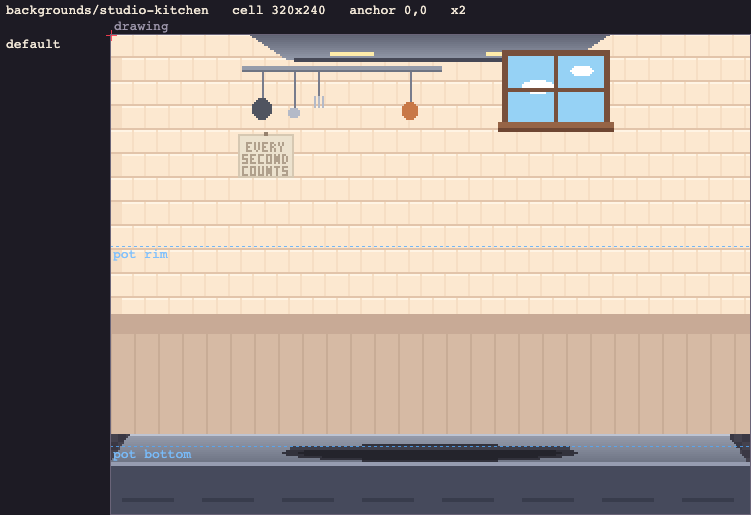
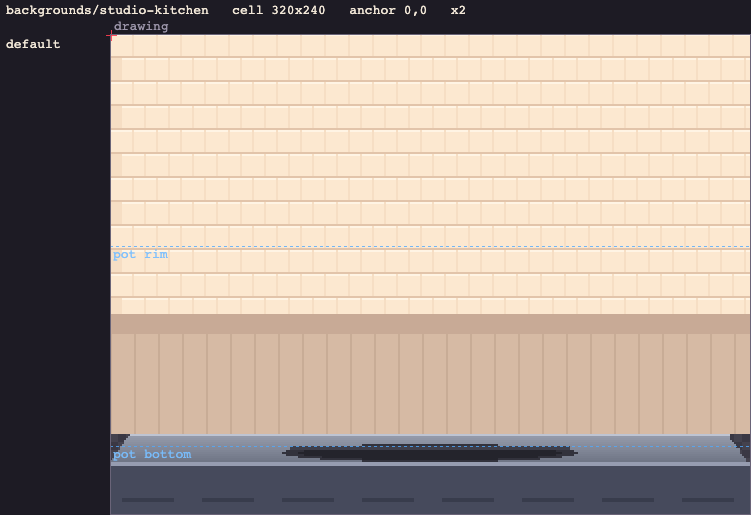
Republish the artist's catalog (plain dishes and kitchens)

Changed region(s): [[0.3063, 0.0621, 0.8269, 0.2796], [0.3063, 0.1864, 0.4288, 0.3417], [0.5206, 0.1864, 0.5513, 0.2485]]

diff --git a/art-branch/index.html b/art-branch/index.html
@@ -552,21 +552,12 @@
       <img src="templates/ingredients/dishes/chili.guide.png" alt="ingredients/dishes/chili guide">
       
     </section>
-<h2 id="backgrounds">Backgrounds <small>8 drawings</small></h2>
-    <section class="sprite" id="backgrounds/kitchen">
-      <h3>backgrounds/kitchen</h3>
-      <p class="facts">cell 320×240 · anchor 0,0 · sheet 320×240 ·
-        <a href="templates/backgrounds/kitchen.png">template</a> · <a href="templates/backgrounds/kitchen.json">json</a></p>
-      <p>Sandbox kitchen. The pot, flames and everything in it are drawn on top, centered at the bottom.</p>
-      <table><tr><td>0</td><td><b>default</b></td><td>1 drawing</td><td></td></tr></table>
-      <img src="templates/backgrounds/kitchen.guide.png" alt="backgrounds/kitchen guide">
-      
-    </section>
+<h2 id="backgrounds">Backgrounds <small>7 drawings</small></h2>
     <section class="sprite" id="backgrounds/pizza-shop">
       <h3>backgrounds/pizza-shop</h3>
       <p class="facts">cell 320×240 · anchor 0,0 · sheet 320×240 ·
         <a href="templates/backgrounds/pizza-shop.png">template</a> · <a href="templates/backgrounds/pizza-shop.json">json</a></p>
-      <p>Papa Dom's pizza shop kitchen (Pizza Shop levels). The pot sits in the same place as the kitchen.</p>
+      <p>Papa Dom's pizza shop kitchen (Pizza Shop levels), with an exposed brick wall. It should have a pizza menu on a chalkboard, some kind of pizza advertisement, a pizza oven, and a pizza paddle hung on the wall. The pot, flames and everything in it are drawn on top, centered at the bottom.</p>
       <table><tr><td>0</td><td><b>default</b></td><td>1 drawing</td><td></td></tr></table>
       <img src="templates/backgrounds/pizza-shop.guide.png" alt="backgrounds/pizza-shop guide">
       
@@ -575,7 +566,7 @@
       <h3>backgrounds/studio-kitchen</h3>
       <p class="facts">cell 320×240 · anchor 0,0 · sheet 320×240 ·
         <a href="templates/backgrounds/studio-kitchen.png">template</a> · <a href="templates/backgrounds/studio-kitchen.json">json</a></p>
-      <p>Souped Up's studio kitchen (First Michelin Star levels), with the faded EVERY SECOND COUNTS sign.</p>
+      <p>Souped Up's studio kitchen (First Michelin Star levels), also used for the sandbox and behind the title screen. It should have a window, a hanging set of tools and pans, and a sign that says EVERY SECOND COUNTS. The pot, flames and everything in it are drawn on top, centered at the bottom.</p>
       <table><tr><td>0</td><td><b>default</b></td><td>1 drawing</td><td></td></tr></table>
       <img src="templates/backgrounds/studio-kitchen.guide.png" alt="backgrounds/studio-kitchen guide">
       
